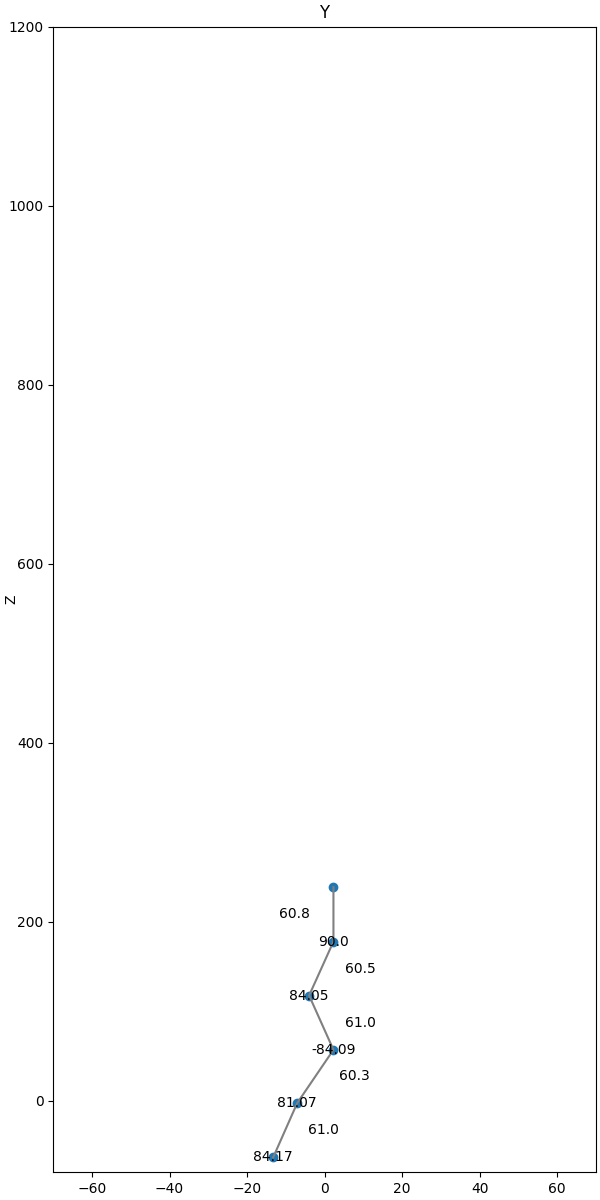
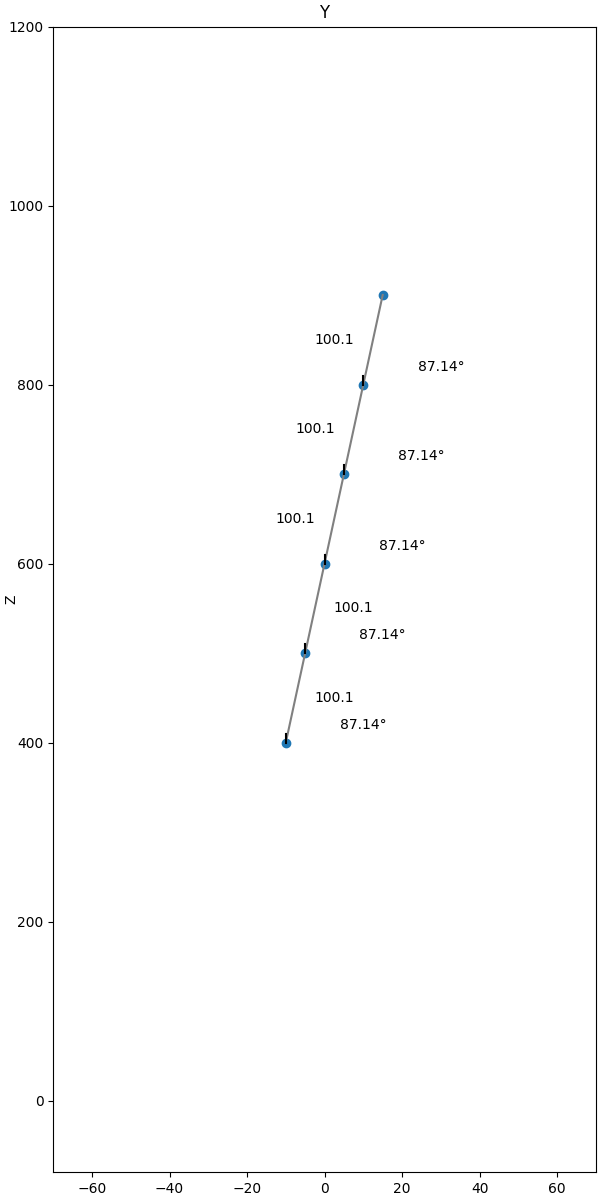
changed degree visualization

diff --git a/main.py b/main.py
@@ -262,8 +262,9 @@ def plotPoints2d(pointsx, pointsy, window, saveAs, xlabel):
     for i in range(5):
         slope[i] = ((pointsy[i + 1] - pointsy[i]) / (pointsx[i + 1] - pointsx[i]))
         angle[i] = round(math.degrees(math.atan(slope[i])), 2)
-        figxy.text(pointsx[i], pointsy[i], angle[i], horizontalalignment='center', verticalalignment='center',
+        figxy.text(pointsx[i] + 20, pointsy[i] + 20, str(angle[i]) + u'\N{DEGREE SIGN}', horizontalalignment='center', verticalalignment='center',
                    transform=ax.transData)
+        ax.plot([pointsx[i], pointsx[i]+10], [pointsy[i]+10,  pointsy[i] + 10], color="black")
 
     figxy.savefig(saveAs)
     return canvas.get_tk_widget()
